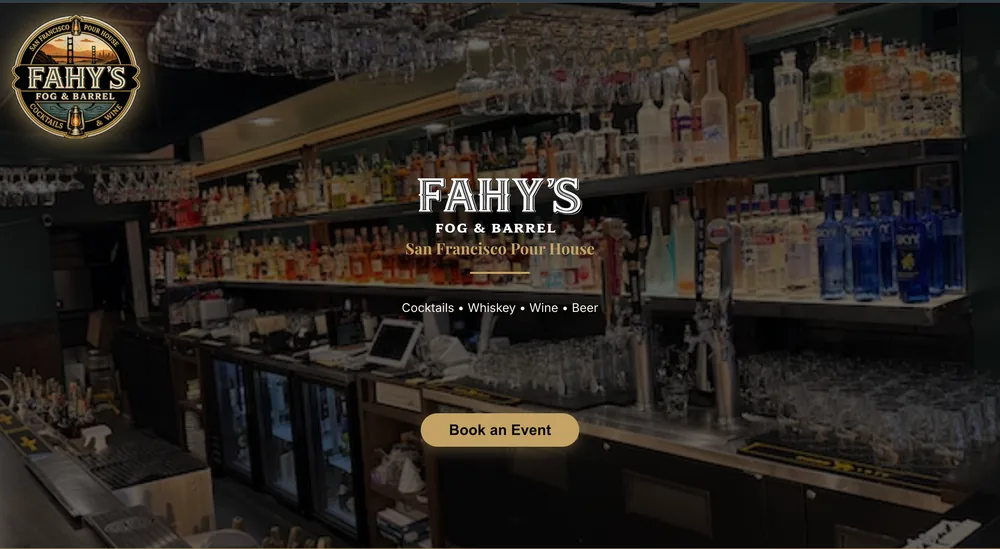
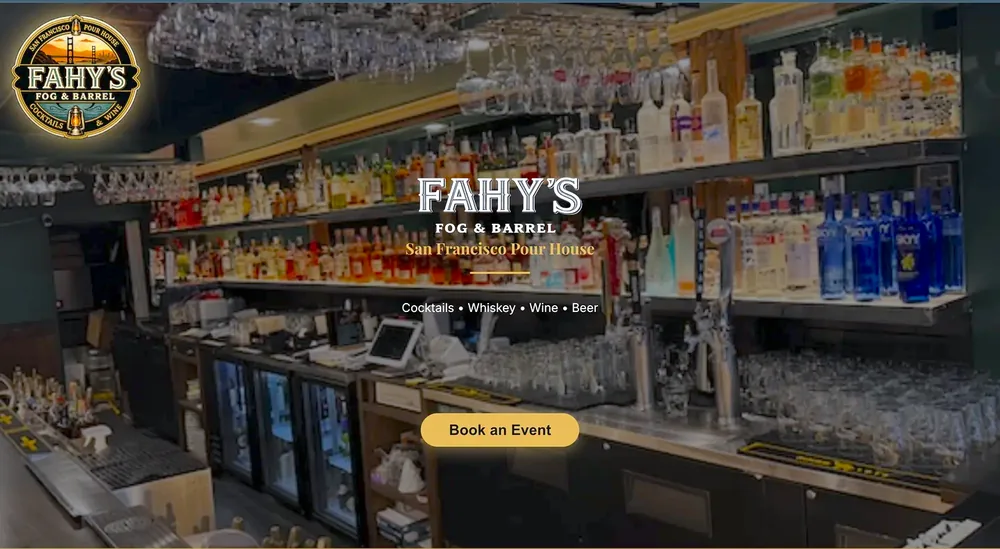
Fahy's: brighter back-bar screenshot for the card, project lead image and desktop view (owner request)
Claude-Session: https://claude.ai/code/session_012DnLqVshpPXi1cMHpK1kgb

diff --git a/work-fahys.html b/work-fahys.html
@@ -35,7 +35,7 @@
       <a class="nav-cta" href="contact.html">Start</a>
     </nav>
     </div>
-  </header><main id="main-content" tabindex="-1"><section class="project-intro"><div class="container"><a class="project-back" href="portfolio.html">All our work</a><div class="project-lead-grid"><div><span class="pill">Logo, website and menu design</span><h1>Fahy’s Fog &amp; Barrel</h1><p>A San Francisco pour house for cocktails, whiskey, wine and beer. We reworked the bar’s logo from its street sign into a clean badge and wordmark, then built the website and cocktail menu around it.</p><a class="project-full-link" href="https://fahyspub.com/" target="_blank" rel="noopener">Visit fahyspub.com</a></div><a class="project-lead-link" href="assets/work/fahys-source-desktop.webp?v=20261029b" target="_blank" rel="noopener" aria-label="Open the full desktop view of the Fahy’s website (opens in a new tab)"><img class="project-lead-image project-full-image" src="assets/work/fahys-website.webp?v=20261029b" alt="Fahy’s Fog and Barrel homepage with the round badge, the Fahy’s wordmark and a Book an Event button over a photo of the back bar" width="1000" height="549"></a></div></div></section><section class="container project-section"><div class="project-story-grid"><article><h2>Project focus</h2><p>Turn the bar’s existing sign into a logo that holds up everywhere, from a phone screen to a printed menu, and give the bar a website for drinks and event bookings.</p></article><article><h2>What we made</h2><ul><li>A redrawn round badge and a matching wordmark, in versions for dark and light backgrounds.</li><li>A one-page website with the bar’s story, signature cocktails, location and event booking.</li><li>A cocktail menu in the same cream, green and gold palette.</li></ul></article><article><h2>Design choices</h2><p>The badge keeps the sign’s Golden Gate Bridge and lanterns but redraws the lettering so it reads clearly at small sizes. On the website, the clean wordmark sits over photos of the bar so the room itself sets the mood.</p></article></div><p class="project-record-note">From our project archive. Layouts and content reflect the original project files.</p></section><section class="container project-section" aria-labelledby="logo-title"><header class="project-section-head"><h2 id="logo-title">Logo modifications</h2><p>From the street sign to the final badge and wordmark.</p></header><div class="project-logo-grid"><figure><img src="assets/work/fahys-logo-1-original-sign.webp" alt="Fahy’s hanging street sign outside the bar on a San Francisco sidewalk" width="480" height="640" loading="lazy"><figcaption>The original street sign</figcaption></figure><figure><img src="assets/work/fahys-logo-2-first-redraw.webp" alt="First digital redraw of the round Fahy’s badge, with the Golden Gate Bridge, lanterns and San Francisco Pour House lettering" width="320" height="314" loading="lazy"><figcaption>First redraw of the badge</figcaption></figure><figure><img src="assets/work/fahys-logo-3-final-badge.webp" alt="Final round Fahy’s Fog and Barrel badge with cleaner lettering, the Golden Gate Bridge and two lanterns" width="300" height="294" loading="lazy"><figcaption>Final badge</figcaption></figure><figure><img src="assets/work/fahys-logo-4-sign-wordmark.webp" alt="Fahy’s Fog and Barrel wordmark in cream and grey on a red sign panel" width="640" height="319" loading="lazy"><figcaption>Sign-style wordmark</figcaption></figure><figure><img src="assets/work/fahys-logo-5-white-wordmark.webp" alt="Fahy’s Fog and Barrel wordmark in white with a dark drop shadow" width="640" height="283" loading="lazy"><figcaption>White wordmark</figcaption></figure><figure><img src="assets/work/fahys-logo-6-final-wordmark.webp" alt="Final clean white Fahy’s Fog and Barrel wordmark used on the website" width="500" height="172" loading="lazy"><figcaption>Final wordmark</figcaption></figure></div></section><section class="container project-section" aria-labelledby="views-title"><header class="project-section-head"><h2 id="views-title">From the actual project files</h2><p>Desktop and mobile views rendered from the website source.</p></header><div class="project-view-grid"><figure><img src="assets/work/fahys-source-desktop.webp?v=20261029b" alt="Desktop layout of the Fahy’s Fog and Barrel website" width="1440" height="790" loading="lazy"><figcaption>Desktop view · website source</figcaption></figure><figure class="project-mobile-view"><img src="assets/work/fahys-source-mobile.webp" alt="Mobile layout of the Fahy’s Fog and Barrel website" width="390" height="844" loading="lazy"><figcaption>Mobile view · website source</figcaption></figure></div></section><section class="project-next"><div class="container"><h2>What could we build for you?</h2><p>The Website Package builds a finished site of up to 5 pages in your choice of 9 styles.</p><div class="hero-actions"><a class="btn primary" href="contact.html?service=website">Start a Website Package</a><a class="btn ghost" href="website-design.html">See the package</a></div></div></section></main><footer class="footer">
+  </header><main id="main-content" tabindex="-1"><section class="project-intro"><div class="container"><a class="project-back" href="portfolio.html">All our work</a><div class="project-lead-grid"><div><span class="pill">Logo, website and menu design</span><h1>Fahy’s Fog &amp; Barrel</h1><p>A San Francisco pour house for cocktails, whiskey, wine and beer. We reworked the bar’s logo from its street sign into a clean badge and wordmark, then built the website and cocktail menu around it.</p><a class="project-full-link" href="https://fahyspub.com/" target="_blank" rel="noopener">Visit fahyspub.com</a></div><a class="project-lead-link" href="assets/work/fahys-source-desktop.webp?v=20261030-bright" target="_blank" rel="noopener" aria-label="Open the full desktop view of the Fahy’s website (opens in a new tab)"><img class="project-lead-image project-full-image" src="assets/work/fahys-website.webp?v=20261030-bright" alt="Fahy’s Fog and Barrel homepage with the round badge, the Fahy’s wordmark and a Book an Event button over a photo of the back bar" width="1000" height="549"></a></div></div></section><section class="container project-section"><div class="project-story-grid"><article><h2>Project focus</h2><p>Turn the bar’s existing sign into a logo that holds up everywhere, from a phone screen to a printed menu, and give the bar a website for drinks and event bookings.</p></article><article><h2>What we made</h2><ul><li>A redrawn round badge and a matching wordmark, in versions for dark and light backgrounds.</li><li>A one-page website with the bar’s story, signature cocktails, location and event booking.</li><li>A cocktail menu in the same cream, green and gold palette.</li></ul></article><article><h2>Design choices</h2><p>The badge keeps the sign’s Golden Gate Bridge and lanterns but redraws the lettering so it reads clearly at small sizes. On the website, the clean wordmark sits over photos of the bar so the room itself sets the mood.</p></article></div><p class="project-record-note">From our project archive. Layouts and content reflect the original project files.</p></section><section class="container project-section" aria-labelledby="logo-title"><header class="project-section-head"><h2 id="logo-title">Logo modifications</h2><p>From the street sign to the final badge and wordmark.</p></header><div class="project-logo-grid"><figure><img src="assets/work/fahys-logo-1-original-sign.webp" alt="Fahy’s hanging street sign outside the bar on a San Francisco sidewalk" width="480" height="640" loading="lazy"><figcaption>The original street sign</figcaption></figure><figure><img src="assets/work/fahys-logo-2-first-redraw.webp" alt="First digital redraw of the round Fahy’s badge, with the Golden Gate Bridge, lanterns and San Francisco Pour House lettering" width="320" height="314" loading="lazy"><figcaption>First redraw of the badge</figcaption></figure><figure><img src="assets/work/fahys-logo-3-final-badge.webp" alt="Final round Fahy’s Fog and Barrel badge with cleaner lettering, the Golden Gate Bridge and two lanterns" width="300" height="294" loading="lazy"><figcaption>Final badge</figcaption></figure><figure><img src="assets/work/fahys-logo-4-sign-wordmark.webp" alt="Fahy’s Fog and Barrel wordmark in cream and grey on a red sign panel" width="640" height="319" loading="lazy"><figcaption>Sign-style wordmark</figcaption></figure><figure><img src="assets/work/fahys-logo-5-white-wordmark.webp" alt="Fahy’s Fog and Barrel wordmark in white with a dark drop shadow" width="640" height="283" loading="lazy"><figcaption>White wordmark</figcaption></figure><figure><img src="assets/work/fahys-logo-6-final-wordmark.webp" alt="Final clean white Fahy’s Fog and Barrel wordmark used on the website" width="500" height="172" loading="lazy"><figcaption>Final wordmark</figcaption></figure></div></section><section class="container project-section" aria-labelledby="views-title"><header class="project-section-head"><h2 id="views-title">From the actual project files</h2><p>Desktop and mobile views rendered from the website source.</p></header><div class="project-view-grid"><figure><img src="assets/work/fahys-source-desktop.webp?v=20261030-bright" alt="Desktop layout of the Fahy’s Fog and Barrel website" width="1440" height="790" loading="lazy"><figcaption>Desktop view · website source</figcaption></figure><figure class="project-mobile-view"><img src="assets/work/fahys-source-mobile.webp" alt="Mobile layout of the Fahy’s Fog and Barrel website" width="390" height="844" loading="lazy"><figcaption>Mobile view · website source</figcaption></figure></div></section><section class="project-next"><div class="container"><h2>What could we build for you?</h2><p>The Website Package builds a finished site of up to 5 pages in your choice of 9 styles.</p><div class="hero-actions"><a class="btn primary" href="contact.html?service=website">Start a Website Package</a><a class="btn ghost" href="website-design.html">See the package</a></div></div></section></main><footer class="footer">
   <div class="container footer-inner">
     <div class="footer-copy">© 2019–2026 MENU-MADE</div>
 

diff --git a/portfolio.html b/portfolio.html
@@ -89,7 +89,7 @@
         </article>
         <article class="work-card">
           <a class="work-visual" href="work-fahys.html" aria-label="Read the Fahy’s Fog and Barrel logo and website project">
-            <img src="assets/work/fahys-website.webp?v=20261029b" alt="Fahy’s Fog and Barrel homepage with the round badge, the Fahy’s wordmark and a Book an Event button over a photo of the back bar" width="1000" height="549" loading="lazy">
+            <img src="assets/work/fahys-website.webp?v=20261030-bright" alt="Fahy’s Fog and Barrel homepage with the round badge, the Fahy’s wordmark and a Book an Event button over a photo of the back bar" width="1000" height="549" loading="lazy">
           </a>
           <div class="work-copy">
             <p class="work-type">Pour house · Logo and website design</p>
